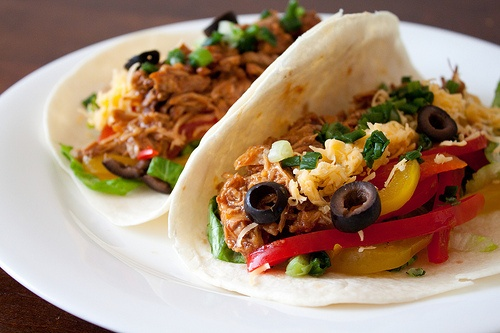
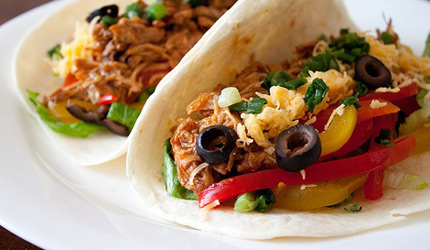
final updates before submission

diff --git a/MySite_Parker_Duke/index.html b/MySite_Parker_Duke/index.html
@@ -31,13 +31,13 @@
 <div class="wrapper">
 
 <section>
-	<div id="recipes">
 		<h2>Recipes</h2>
-		<hr />
 		<p class="description">A few of my greatest creations to both make and <span>enjoy</span>.</p>
-	
+		<hr />
+
+	<div id="recipes">	
+		<img src="images/tacos.jpg" width="430" height="250" alt="Tacos">
 		<h3>Chicken Tacos</h3>
-		<img src="images/tacos.jpg" width="500" height="333" alt="Tacos">
 		<h4>Ingredients</h4>
 		<ul>
 			<li>Corn Shells</li>
@@ -55,145 +55,165 @@
 			<li>Add meat and diced cilantro and onion to a corn shell</li>
 			<li>Garnish with ingredients of your choice</li>
 		</ol>
+		<hr />
 	
+		<img src="images/ceviche.jpg" width="430" height="250" alt="Ceviche">
 		<h3>Ceviche</h3>
-		<img src="images/ceviche.jpg" width="460" height="306" alt="Ceviche">
-		<p>Ingredients</p>
+		<h4>Ingredients</h4>
 		<ul>
-		<li>1 bag of already cooked shrimp</li>
-		<li>Salt and Pepper</li>
-		<li>Fresh Cilantro</li>
-		<li>Red Onion</li>
-		<li>Jalepeno</li>
-		<li>2 Lemons and Limes</li>
+			<li>1 bag of already cooked shrimp</li>
+			<li>Salt and Pepper</li>
+			<li>Fresh Cilantro</li>
+			<li>Red Onion</li>
+			<li>Jalepeno</li>
+			<li>2 Lemons and Limes</li>
 		</ul>
 		<h4>How To Prepare:</h4>
 		<ol>
-		<li>Thaw shrimp and dice into cubes</li>
-		<li>Dice cilantro, onion and jalepeno</li>
-		<li>Mix ingredients into a bowl</li>
-		<li>Squeeze in lemon and limes</li>
-		<li>Mix and add salt and pepper to taste</li>
-		<li>Let sit in fridge for at least 1 hour</li>
+			<li>Thaw shrimp and dice into cubes</li>
+			<li>Dice cilantro, onion and jalepeno</li>
+			<li>Mix ingredients into a bowl</li>
+			<li>Squeeze in lemon and limes</li>
+			<li>Mix and add salt and pepper to taste</li>
+			<li>Let sit in fridge for at least 1 hour</li>
 		</ol>
-	
+		<hr />
+		
+		<img src="images/chili.jpg" width="430" height="250" alt="Black Bean Ckicken Chili">
 		<h3>Chicken Black Bean Chili</h3>
-		<img src="images/chili.jpg" width="300" height="300" alt="Black Bean Ckicken Chili">
-		<p>Ingredients</p>
+		<h4>Ingredients</h4>
 		<ul>
-		<li>Black Beans, 1 can</li>
-		<li>Chicken Breasts</li>
-		<li>Fresh Cilantro</li>
-		<li>Red Onion</li>
-		<li>Chili powder and cumin</li>
-		<li>3 cans of tomato sauce</li>
+			<li>Black Beans, 1 can</li>
+			<li>Chicken Breasts</li>
+			<li>Fresh Cilantro</li>
+			<li>Red Onion</li>
+			<li>Chili powder and cumin</li>
+			<li>3 cans of tomato sauce</li>
 		</ul>
 		<h4>How To Prepare:</h4>
 		<ol>
-		<li>Dice chicken and onion</li>
-		<li>Sautee in a large pot</li>
-		<li>When chicken is browned add tomato sauce and blank beans (rinsed)</li>
-		<li>Add seasonings</li>
-		<li>Let simmer for at least 1 hour</li>
-		<li>Garnish with cilantro and ingredients of your choice</li>
+			<li>Dice chicken and onion</li>
+			<li>Sautee in a large pot</li>
+			<li>When chicken is browned add tomato sauce and blank beans (rinsed)</li>
+			<li>Add seasonings</li>
+			<li>Let simmer for at least 1 hour</li>
+			<li>Garnish with cilantro and ingredients of your choice</li>
 		</ol>
+		<hr />
 	
+		<img src="images/tortillasoup.jpg" width="430" height="250" alt="Tortilla Soup">
 		<h3>Tortilla Soup</h3>
-		<img src="images/tortillasoup.jpg" width="554" height="369" alt="Tortilla Soup">
-		<p>Ingredients</p>
+		<h4>Ingredients</h4>
 		<ul>
-		<li>Corn Chips</li>
-		<li>Chicken Breasts</li>
-		<li>Fresh Cilantro</li>
-		<li>Red Onion</li>
-		<li>2 cans of chicken broth</li>
-		<li>2 cans of tomato sauce</li>
-		<li>Black Beans, 1 can</li>
-		<li>1/2 can of corn</li>
-		<li>Salt and Pepper</li>
+			<li>Corn Chips</li>
+			<li>Chicken Breasts</li>
+			<li>Fresh Cilantro</li>
+			<li>Red Onion</li>
+			<li>2 cans of chicken broth</li>
+			<li>2 cans of tomato sauce</li>
+			<li>Black Beans, 1 can</li>
+			<li>1/2 can of corn</li>
+			<li>Salt and Pepper</li>
 		</ul>
 		<h4>How To Prepare:</h4>
 		<ol>
-		<li>Grill chicken and dice</li>
-		<li>In a large pot mix broth, sauce, beans and corn</li>
-		<li>Salt and pepper to taste</li>
-		<li>Add cooked chicken and let simmer for at least 1 hour</li>
-		<li>Serve and garnish with onion and cilantro</li>
-		<li>Add lime, avocado, corn chips and cheese before eating</li>
+			<li>Grill chicken and dice</li>
+			<li>In a large pot mix broth, sauce, beans and corn</li>
+			<li>Salt and pepper to taste</li>
+			<li>Add cooked chicken and let simmer for at least 1 hour</li>
+			<li>Serve and garnish with onion and cilantro</li>
+			<li>Add lime, avocado, corn chips and cheese before eating</li>
 		</ol>
 	</div>
 </section>
 	
+<hr /> 
+
 <section>
 	<div id="ingredients">
 	<h2>Ingredients</h2>
-	<p>A little bit about my favorite ingredients to cook with and eat.</p>
+	<p class="description">A little bit about my favorite ingredients to cook with and eat.</p>
+	<hr />
 	
 	<h3>Cilantro</h3>
 	<p>At first, cilantro was one of my most hated foods. It's generally known to have a "soapy" taste and I found that true in my first experiences with the herb. After trying it a few times in various recipes I began to acquire a taste for it and it eventually turned into my favorite ingredient.</p>
 	<h4>When to use it:</h4>
 	<ul>
-	<li>In salsa</li>
-	<li>As a garnish</li>
-	<li>In soups and sandwiches</li>
+		<li>In salsa</li>
+		<li>As a garnish</li>
+		<li>In soups and sandwiches</li>
 	</ul>
 
 	<h3>Tomatoes</h3>
 	<p>Tomatoes have a long history and tie into my Italian heritage. For many years my family used fresh tomatoes to make sauce for pastas and other Italian dishes. I grown to enjoy tomatoes that way and on basically everything I eat.</p>
 	<h4>When to use them:</h4>
 	<ul>
-	<li>When making tomato sauce</li>
-	<li>On sandwiches</li>
-	<li>In salsa</li>
-	<li>In salads</li>
+		<li>When making tomato sauce</li>
+		<li>On sandwiches</li>
+		<li>In salsa</li>
+		<li>In salads</li>
 	</ul>
 	
 	<h3>Chipotle Peppers</h3>
 	<p>Most of my experience with Chipotles have been with canned or dried chipotle but the flavor it adds is great enough to work its way into my favorites if used correctly. It adds a smokey, spice to any dish.</p>
 	<h4>When to use it:</h4>
 	<ul>
-	<li>When boiling chicken and a few dried chipotles</li>
-	<li>When making chili dice up a couple canned chipotles in adobo sauce</li>
+		<li>When boiling chicken and a few dried chipotles</li>
+		<li>When making chili dice up a couple canned chipotles in adobo sauce</li>
 	</ul>
 	
 	<h3>Lime</h3>
 	<p>Lime adds a refreshing spark of citrus flavor to everything all your favorite meals.</p>
 	<h4>When to use it:</h4>
 	<ul>
-	<li>Best on cooked chicken or fish</li>	
+		<li>Best on cooked chicken or fish</li>	
 	</ul>
 	</div>
+	<hr />
 </section>
 	
 <section>
 	<div id="places">
 	<h2>Places</h2>
-	<p>I don't always feel like cooking, and when I don't, I go to these places.</p>
+	<p class="description">I don't always feel like cooking, and when I don't, I go to these places.</p>
+	<hr />
 	
 	<h3>Tio Luis</h3>
+	<div class="special">
 	<p>A Mexican restaurant on the south side of Chicago. A small but tidy place. Home to some of the best tacos in the city</p>
+	<p>Lorem ipsum dolor sit amet, consectetur adipisicing elit, sed do eiusmod tempor incididunt ut labore et dolore magna aliqua. Ut enim ad minim veniam, quis nostrud exercitation ullamco laboris nisi ut aliquip ex ea commodo consequat. Duis aute irure dolor in reprehenderit in voluptate velit esse cillum dolore eu fugiat nulla pariatur. Excepteur sint occaecat cupidatat non proident, sunt in culpa qui officia deserunt mollit anim id est laborum.</p>
+	</div>
 	<p><a href="http://www.yelp.com/biz/tio-luis-tacos-chicago">Check it out on Yelp.</a></p>
 	
 	<h3>Honky Tonk BBQ</h3>
+	<div class="special">
 	<p>Another small dive type restaurant in the Pilsen neighborhood in Chicago with a western vibe. The pulled pork sandwiches are as messy as they are delicious. Be prepared to towel off after.</p>
+	<p>Lorem ipsum dolor sit amet, consectetur adipisicing elit, sed do eiusmod tempor incididunt ut labore et dolore magna aliqua. Ut enim ad minim veniam, quis nostrud exercitation ullamco laboris nisi ut aliquip ex ea commodo consequat. Duis aute irure dolor in reprehenderit in voluptate velit esse cillum dolore eu fugiat nulla pariatur. Excepteur sint occaecat cupidatat non proident, sunt in culpa qui officia deserunt mollit anim id est laborum.</p>
+	</div>
 	<p><a href="http://www.yelp.com/biz/honky-tonk-bbq-chicago">Check it out on Yelp.</a></p>
 
 	
 	<h3>Mastro's Steakhouse</h3>
+	<div class="special">
 	<p>Located across the street from Rock and Roll McDonalds downtown Chicago, if you're looking to class it up a little, look no further. The steaks are the best in Chicago and the Tuna Tar Tar makes an excellent starter. </p>
+	<p>Lorem ipsum dolor sit amet, consectetur adipisicing elit, sed do eiusmod tempor incididunt ut labore et dolore magna aliqua. Ut enim ad minim veniam, quis nostrud exercitation ullamco laboris nisi ut aliquip ex ea commodo consequat. Duis aute irure dolor in reprehenderit in voluptate velit esse cillum dolore eu fugiat nulla pariatur. Excepteur sint occaecat cupidatat non proident, sunt in culpa qui officia deserunt mollit anim id est laborum.</p>
+	</div>
 	<p><a href="http://www.yelp.com/biz/mastros-steakhouse-chicago">Check it out on Yelp.</a></p>
 
 	
 	<h3>The Doughnut Vault</h3>
+	<div class="special">
 	<p>Tucked away in a little corner behind the Merchandise Mart, the tiny establishment cranks out the softest, tastiest most calorie packed doughnuts I've ever tasted. The line that wraps around the building each morning says enough about this place. The menu is small so make sure to try them all, at least 10 times.</p>
+	<p>Lorem ipsum dolor sit amet, consectetur adipisicing elit, sed do eiusmod tempor incididunt ut labore et dolore magna aliqua. Ut enim ad minim veniam, quis nostrud exercitation ullamco laboris nisi ut aliquip ex ea commodo consequat. Duis aute irure dolor in reprehenderit in voluptate velit esse cillum dolore eu fugiat nulla pariatur. Excepteur sint occaecat cupidatat non proident, sunt in culpa qui officia deserunt mollit anim id est laborum.</p>
+	</div>
 	<p><a href="http://www.yelp.com/biz/the-doughnut-vault-chicago#query:donut%20vault">Check it out on Yelp.</a></p>
 	</div>
 </section>
+</div>
 	
 <footer>
-	<p>&#169; Duke Parker 2012.</p>
+	<p>&#169; 2012 Duke Parker.</p>
 </footer>
-</div>
 
 </body>
 </html>

diff --git a/MySite_Parker_Duke/css/main.css b/MySite_Parker_Duke/css/main.css
@@ -8,11 +8,6 @@ body {
 a {
 	outline: 0;
 	}
-
-ul, ol {
-	padding: 0px;
-	margin: 0;
-	} 
 	
 hr {
 	border: none;
@@ -78,6 +73,19 @@ h2 {
 	text-align: center;
 	margin: 10px auto;
 	}
+
+h3 {
+	font-family: 'Euphoria Script', cursive;
+	font-weight: 100;	
+	font-size: 35px;
+	margin: 20px 0 6px 0;
+	}
+
+h4 {
+	font-size: 20px;
+	margin: 20px 0 10px 0;
+	color: #666;
+	}
 	
 .intro {
 	font-family: 'Euphoria Script', cursive;
@@ -93,4 +101,39 @@ h2 {
 .description {
 	text-align: center;
 	color: #666;
+	}
+	
+img {
+	float: right;
+	border: 1px solid #e4e4e4;
+	padding: 10px;
+	margin: 20px;
+	}
+	
+.wrapper ul{
+	padding: 0px;
+	margin: 10px 0 20px 20px;
+	-moz-column-count: 2;
+	text-align: left;
+	color: #666;
+	list-style-type: circle;
+	} 
+
+.wrapper ol {
+	padding: 0px;
+	margin: 10px 0 20px 20px;
+	text-align: left;
+	color: #666;
+	} 
+
+.special {
+	-moz-column-count: 3;
+	color: #666;
+	}
+	
+footer p {
+	color: #fff;
+	text-align: center;
+	}
+
 	}
